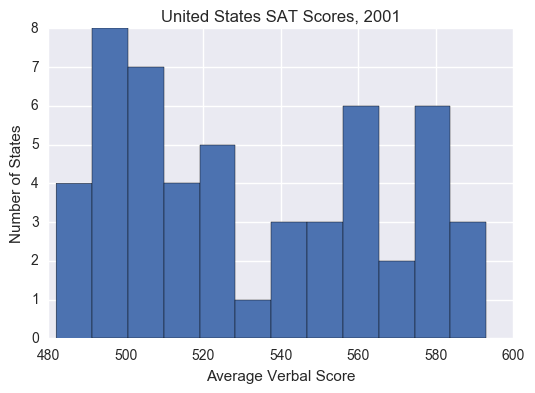
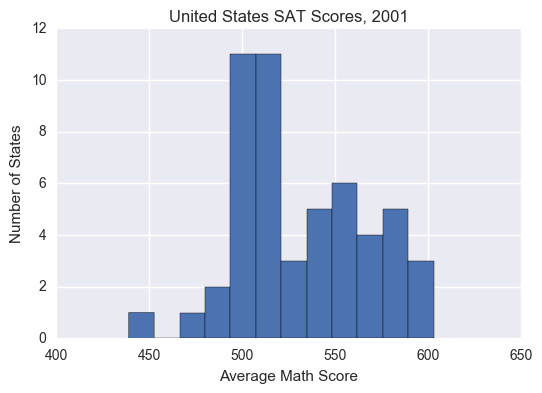
updated SAT score blog post

diff --git a/_posts/2017-01-29-SAT-scores.md b/_posts/2017-01-29-SAT-scores.md
@@ -1,11 +1,6 @@
----
-layout: post
-image: '/img/sat.jpg'
-title: SAT Scores in the United States
-subtitle: "Category: Data Visualization"
----
 
-The purpose of this project is to explore a dataset of SAT scores from around the country and explore ways to effectively visualize the data.  This data, taken from the College Board, gives the mean SAT math and verbal scores, and the participation rate for each state and the District of Columbia for the year 2001.  This project will culminate in a [D3](https://d3js.org/) visualization of SAT scores mapped across the US.  The exploratory analysis and plotting will be done in Python.
+The purpose of this project is to explore a dataset of SAT scores from around the country and explore ways to effectively visualize the data.  This data, taken from the College Board, gives the mean SAT math and verbal scores, and the participation rate for each state and the District of Columbia for the year 2001.  Exploratory analysis and plotting will be performed with Python.  Lastly, this project will culminate in a [D3](https://d3js.org/) visualization of SAT scores (combined) and participation rates mapped across the US.  
+
 
 First, we start by loading all the required Python packages and reading in the data as a list.
 
@@ -28,67 +23,7 @@ with open(my_csv_path, 'r') as f:
     reader = csv.reader(f)
     for row in reader:
         sat_list.append(row)
-sat_list
 ```
-
-
-
-
-    [['State', 'Rate', 'Verbal', 'Math'],
-     ['CT', '82', '509', '510'],
-     ['NJ', '81', '499', '513'],
-     ['MA', '79', '511', '515'],
-     ['NY', '77', '495', '505'],
-     ['NH', '72', '520', '516'],
-     ['RI', '71', '501', '499'],
-     ['PA', '71', '500', '499'],
-     ['VT', '69', '511', '506'],
-     ['ME', '69', '506', '500'],
-     ['VA', '68', '510', '501'],
-     ['DE', '67', '501', '499'],
-     ['MD', '65', '508', '510'],
-     ['NC', '65', '493', '499'],
-     ['GA', '63', '491', '489'],
-     ['IN', '60', '499', '501'],
-     ['SC', '57', '486', '488'],
-     ['DC', '56', '482', '474'],
-     ['OR', '55', '526', '526'],
-     ['FL', '54', '498', '499'],
-     ['WA', '53', '527', '527'],
-     ['TX', '53', '493', '499'],
-     ['HI', '52', '485', '515'],
-     ['AK', '51', '514', '510'],
-     ['CA', '51', '498', '517'],
-     ['AZ', '34', '523', '525'],
-     ['NV', '33', '509', '515'],
-     ['CO', '31', '539', '542'],
-     ['OH', '26', '534', '439'],
-     ['MT', '23', '539', '539'],
-     ['WV', '18', '527', '512'],
-     ['ID', '17', '543', '542'],
-     ['TN', '13', '562', '553'],
-     ['NM', '13', '551', '542'],
-     ['IL', '12', '576', '589'],
-     ['KY', '12', '550', '550'],
-     ['WY', '11', '547', '545'],
-     ['MI', '11', '561', '572'],
-     ['MN', '9', '580', '589'],
-     ['KS', '9', '577', '580'],
-     ['AL', '9', '559', '554'],
-     ['NE', '8', '562', '568'],
-     ['OK', '8', '567', '561'],
-     ['MO', '8', '577', '577'],
-     ['LA', '7', '564', '562'],
-     ['WI', '6', '584', '596'],
-     ['AR', '6', '562', '550'],
-     ['UT', '5', '575', '570'],
-     ['IA', '5', '593', '603'],
-     ['SD', '4', '577', '582'],
-     ['ND', '4', '592', '599'],
-     ['MS', '4', '566', '551'],
-     ['All', '45', '506', '514']]
-
-
 
 Next, we do a sanity check to make sure all states are accounted for.  The total number of rows should be 53 (50 states + 1 DC + 1 All + 1 column header).  
 
@@ -104,9 +39,9 @@ len(sat_list)
 
 
 
-Although each state has mean verbal and math SAT scores posted, many of the states have low participation rates.  This could lead to the data being skewed or biased. With 20 states having participating rates of 20% or less, the data set would be more accurate and reliable if more states had higher participation rates. The values of the SAT scores all seem reasonable (i.e., no entries with 0 or N/A).
+Although each state has posted mean Verbal and Math SAT scores, many of the states have low participation rates.  This finding is probably the result of the ACT test (a competitor to the SAT test) being popular among the southern and midwestern states.  In states where the ACT test dominates in popularity, the SAT scores may be biased or skewed toward the higher end due to the fact that students who take both exams tend to be more competitive and/or higher achieving students. With 20 states having participation rates of 20% or less, the data set would offer a fairer comparison if these states had higher participation rates. Lastly, the values of the SAT scores all seem reasonable (i.e., no entries with 0 or N/A).
 
-Next, we remove column header and create a key-value pair dictionary for any future exploratory data analysis we may want to perform.  For our dictionary we will use the state abbreviation as the key.  The values of the dictionary will be a list containing participation rate, verbal score, and math score.  We use a dictionary comprehension to create the dictionary. 
+Next, we remove the column header and create a key-value pair dictionary in case we ever want to perform further exploratory data analysis in the future.  For our dictionary we will use the state abbreviation as the key.  The values of the dictionary will be a list containing participation rate, verbal score, and math score.  We use a dictionary comprehension to create the dictionary. 
 
 
 ```python
@@ -507,7 +442,9 @@ sat_df
 </table>
 </div>
 
- Let's check the datatypes of each column. 
+
+
+Let's check the datatypes of each column.
 
 
 ```python
@@ -528,7 +465,7 @@ sat_df['Verbal'] = sat_df['Verbal'].astype(int)
 sat_df['Math'] = sat_df['Math'].astype(int)
 ```
 
-Next, we create three different dictionaries with 'State' as the key. The values of each dictionary are 'Rate', 'Verbal' and 'Math'.  These dictionaries are created for any future exploratory data analysis we may want to perform.
+Now we create three distinct dictionaries each with 'State' as the key. The values of each dictionary are 'Rate', 'Verbal' and 'Math'.  We create these dictionaries to make it easy to perform further exploratory analysis in the future, if needed.
 
 
 ```python
@@ -557,7 +494,7 @@ print dict_state_math
     {'WA': 527, 'DE': 499, 'DC': 474, 'WI': 596, 'WV': 512, 'HI': 515, 'FL': 499, 'WY': 545, 'NH': 516, 'NJ': 513, 'NM': 542, 'TX': 499, 'LA': 562, 'NC': 499, 'ND': 599, 'NE': 568, 'TN': 553, 'NY': 505, 'PA': 499, 'RI': 499, 'NV': 515, 'VA': 501, 'CO': 542, 'AK': 510, 'AL': 554, 'AR': 550, 'VT': 506, 'IL': 589, 'GA': 489, 'IN': 501, 'IA': 603, 'OK': 561, 'AZ': 525, 'CA': 517, 'ID': 542, 'CT': 510, 'ME': 500, 'MD': 510, 'All': 514, 'MA': 515, 'OH': 439, 'UT': 570, 'MO': 577, 'MN': 589, 'MI': 572, 'KS': 580, 'MT': 539, 'MS': 551, 'SC': 488, 'KY': 550, 'OR': 526, 'SD': 582}
 
 
-We compute some basic descriptive statistics using NumPy.
+Now we compute some basic descriptive statistics using NumPy.
 
 
 ```python
@@ -617,10 +554,11 @@ plt.ylabel('Number of States')
 plt.title(r'SAT Score Reporting, 2001')
 plt.axis([0, 90, 0, 18])
 plt.grid(True)
+plt.show()
 ```
 
 
-![png](/img/blog_project_1_files/blog_project_1_23_0.png)
+![png](blog_project_1_files/blog_project_1_24_0.png)
 
 
 
@@ -629,12 +567,12 @@ plt.hist(sat_df['Math'],12)
 plt.xlabel('Average Math Score')
 plt.ylabel('Number of States')
 plt.title(r'United States SAT Scores, 2001')
-#plt.axis([400, 650, 0, 12])
 plt.grid(True)
+plt.show()
 ```
 
 
-![png](/img/blog_project_1_files/blog_project_1_24_0.png)
+![png](blog_project_1_files/blog_project_1_25_0.png)
 
 
 
@@ -643,66 +581,51 @@ plt.hist(sat_df['Verbal'],12)
 plt.xlabel('Average Verbal Score')
 plt.ylabel('Number of States')
 plt.title(r'United States SAT Scores, 2001')
-#plt.axis([450, 650, 0, 12])
+plt.axis([470, 600, 0, 10])
 plt.grid(True)
+plt.show()
 ```
 
 
-![png](/img/blog_project_1_files/blog_project_1_25_0.png)
+![png](blog_project_1_files/blog_project_1_26_0.png)
 
-Though working assumption was that the distributions of the SAT dataset would be normal, this is clearly not the case.  The participation rate and SAT Verbal scores appear to be bimodal distributions and the SAT Math scores distribution appear to be positive skewed (with median < mean).
+
+Though working assumption was that the distributions of the SAT dataset would be normal, this is clearly not the case. The participation rate and SAT Verbal scores appear to be bimodal distributions and the SAT Math scores distribution appear to be positive skewed (with median < mean).
 
 To better understand the relationships among the data we use the Seaborn package to create pair plots.
 
 
 ```python
 sns.pairplot(sat_df)
+plt.show()
 ```
 
 
-
-
-    <seaborn.axisgrid.PairGrid at 0x117e49790>
-
-
-
-
-![png](/img/blog_project_1_files/blog_project_1_27_1.png)
+![png](blog_project_1_files/blog_project_1_29_0.png)
 
 
 
 ```python
 sns.jointplot(x='Math', y='Verbal', data=sat_df, color='b')
+plt.show()
 ```
 
 
-
-
-    <seaborn.axisgrid.JointGrid at 0x11a8cc510>
-
-
-
-
-![png](/img/blog_project_1_files/blog_project_1_28_1.png)
+![png](blog_project_1_files/blog_project_1_30_0.png)
 
 
 
 ```python
 sns.jointplot(x='Verbal', y='Rate', data=sat_df, color='b')
+plt.show()
 ```
 
 
+![png](blog_project_1_files/blog_project_1_31_0.png)
 
 
-    <seaborn.axisgrid.JointGrid at 0x11ae5cbd0>
+There are a couple interesting relationships to note. First, we see a strong positive correlation between SAT Verbal and Math scores, with one notable outlier (OH). Ohio was the only state to have a mean SAT Math score of less than 450. This trend demonstrates that states with higher Math SAT scores tend to have higher Verbal SAT scores.  Second, we observe a negative correlation between SAT participation rate and SAT Verbal/Math scores.  This seems to in agreement with our hypothesis that low-performing students in ACT test dominated states will generally tend to forgo taking the SAT test. This leaves only the strongest performing students in these states to take both the ACT and SAT exams, thus skewing the SAT score distribution.  As a result, we find that higher participation rates correspond to lower SAT Verbal/Math scores, and vice versa.
 
+Finally, using D3 we visualize the SAT participation rates and combined SAT scores with two Choropleth maps of the US.  These maps are made with Vida and are used to visually demonstrate the geographical trend of higher SAT scores being concentrated toward the center of the US, and higher SAT participation rates being concentrated toward the western and northeastern parts of the US.
 
-
-
-![png](/img/blog_project_1_files/blog_project_1_29_1.png)
-
-
-There are a couple interesting relationships to note. First, we see a strong positive correlation between SAT Verbal and Math scores, with one notable outlier (OH). Ohio was the only state to have a mean SAT Math score of less than 450. This trend demonstrates that states with higher Math SAT scores tend to have higher Verbal SAT scores.  Second, we observe a negative correlation between SAT participation rate and SAT Verbal and Math scores.  This seems counterintuitive as we would mostly expect states with higher SAT scores to be more likely to share their scores and, therefore, have higher participations rates.  However, the negative correlation shows states with lower SAT scores are generally more likely to have higher participation rates.  It is possible this is the result of a strategy employed by these states to try to get more education funding by demonstrating their below average SAT scoring. 
-
-<iframe src="https://vida.io/embed/9x5J43NPekQMKCsQT?dashboard=1" width="800" height="825" seamless frameBorder="0" scrolling="no"></iframe>
-
+<iframe src="https://vida.io/embed/rwhNanL8qXKHbfzb4?dashboard=1" width="800" height="825" seamless frameBorder="0" scrolling="no"></iframe>
